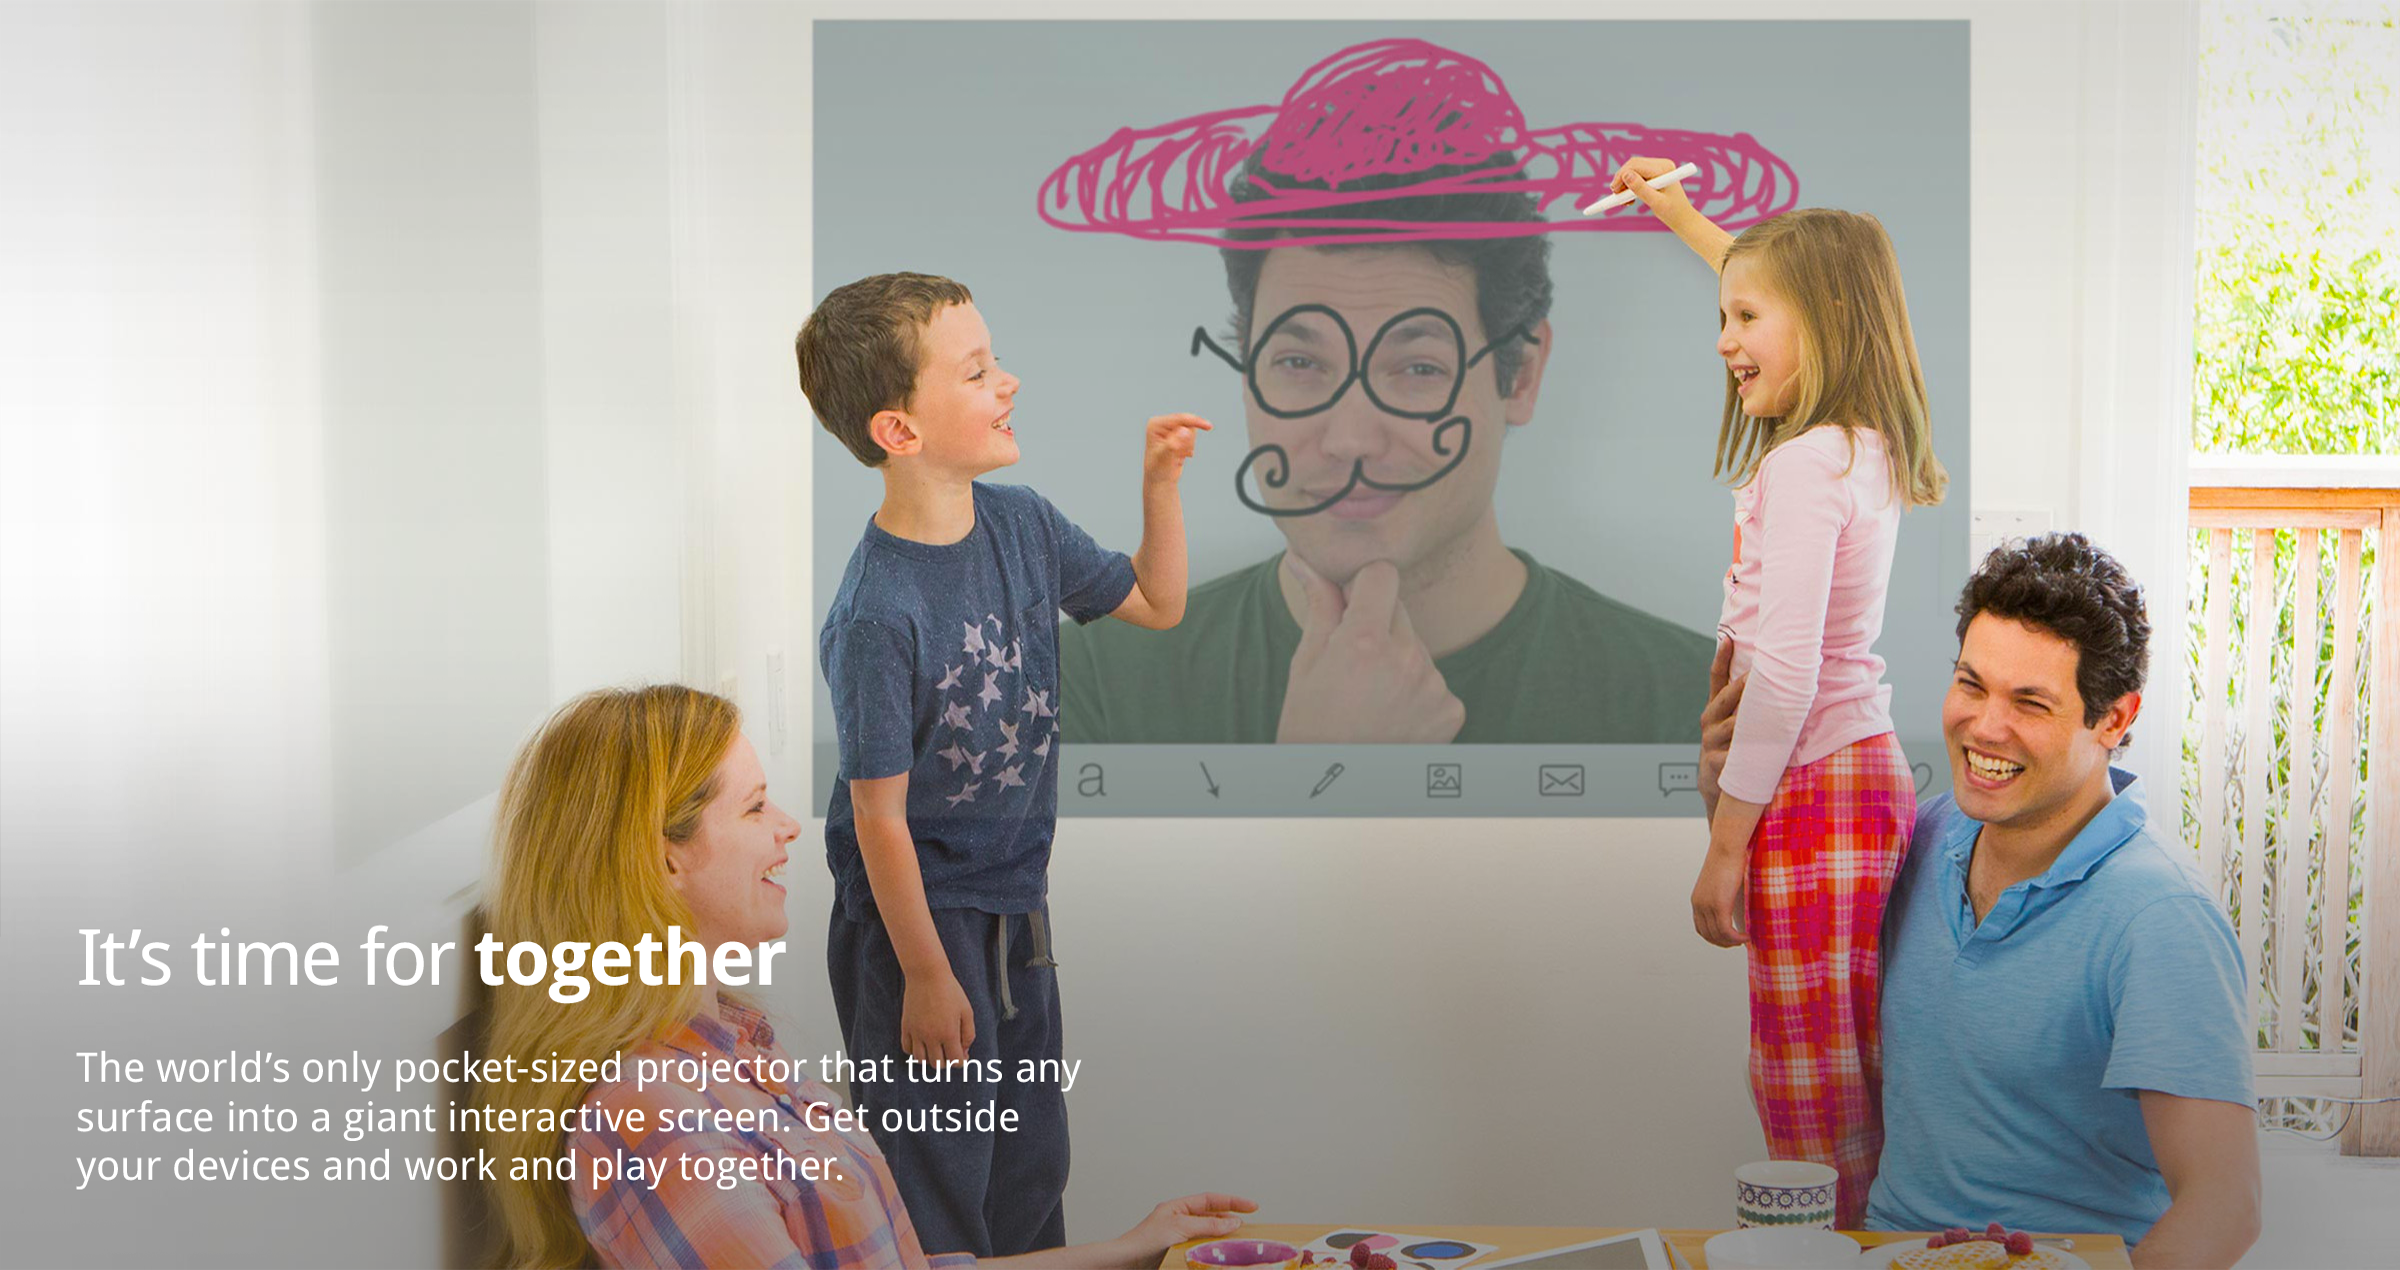
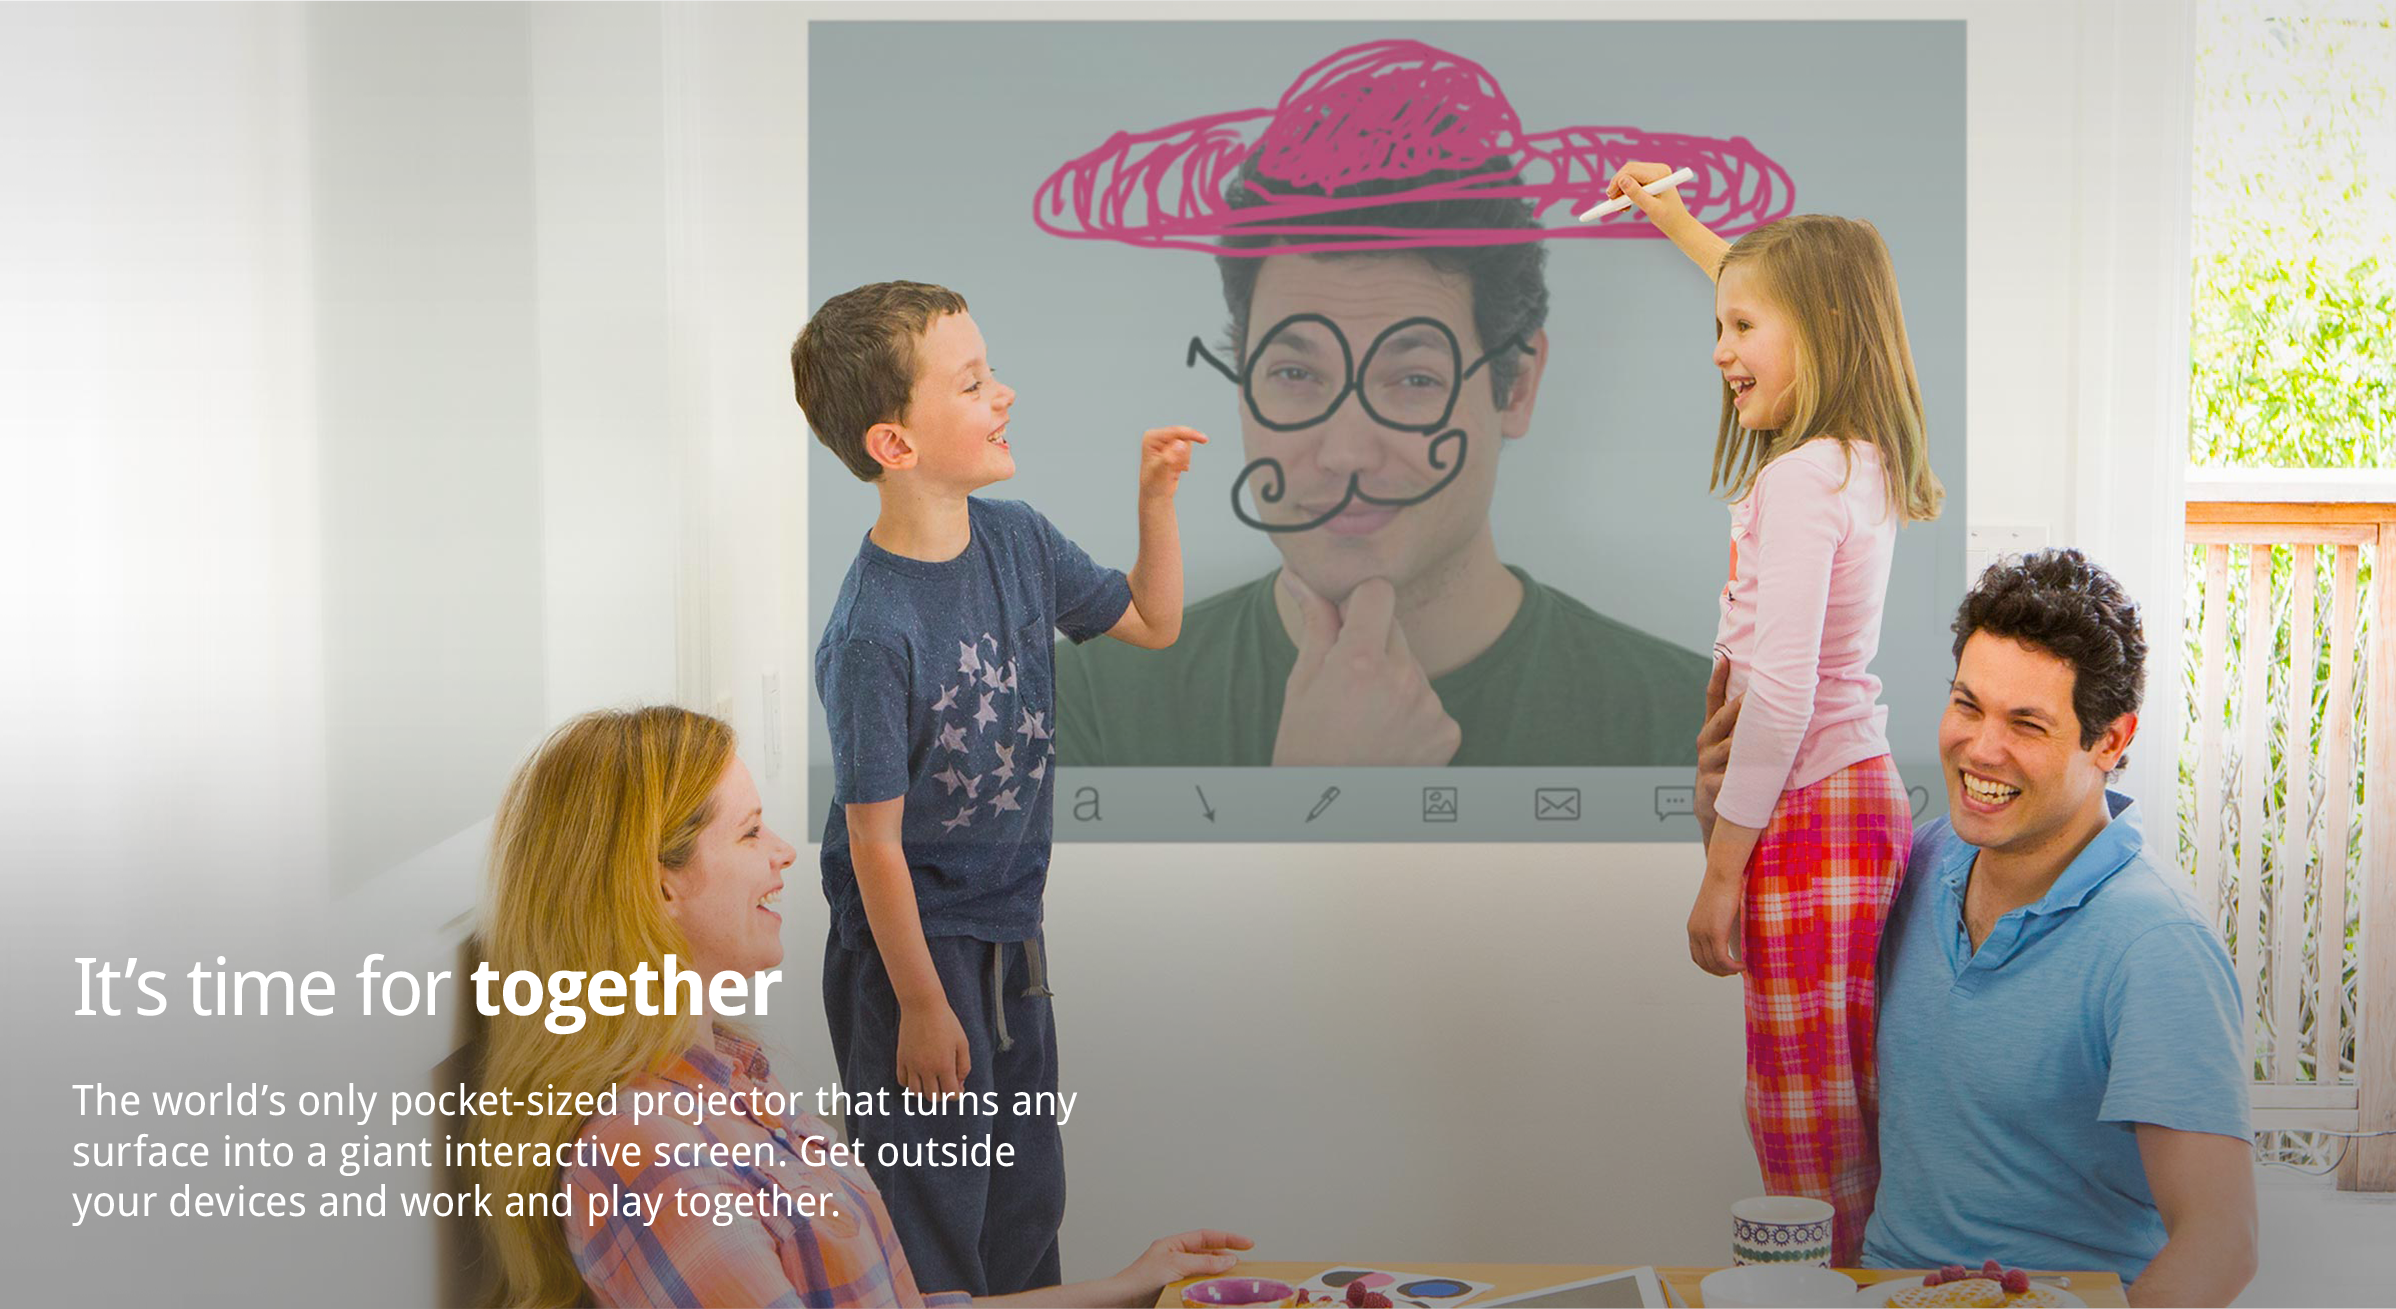
Panel Sizes

diff --git a/dcs-billboard-page.js b/dcs-billboard-page.js
@@ -13,8 +13,8 @@ jQuery(document).ready(function()  {
     
     /** Background Section Processing */
     //The panel sizes 
-    var panelSizes = new Array( 1309, 620, 1200, 1200, 1200, 753, 1291);
-	var scaleFactor = 0.5;
+    var panelSizes = new Array( 1309, 400, 1200, 1200, 1200, 753, 1291);
+	var scaleFactor = 1.0;
 	var panelWidth = 2400; //Starting image widths
 
 	/** Dictates the "Swap state" of the panels. 2,6 and 7 don't have swap panels.*/
